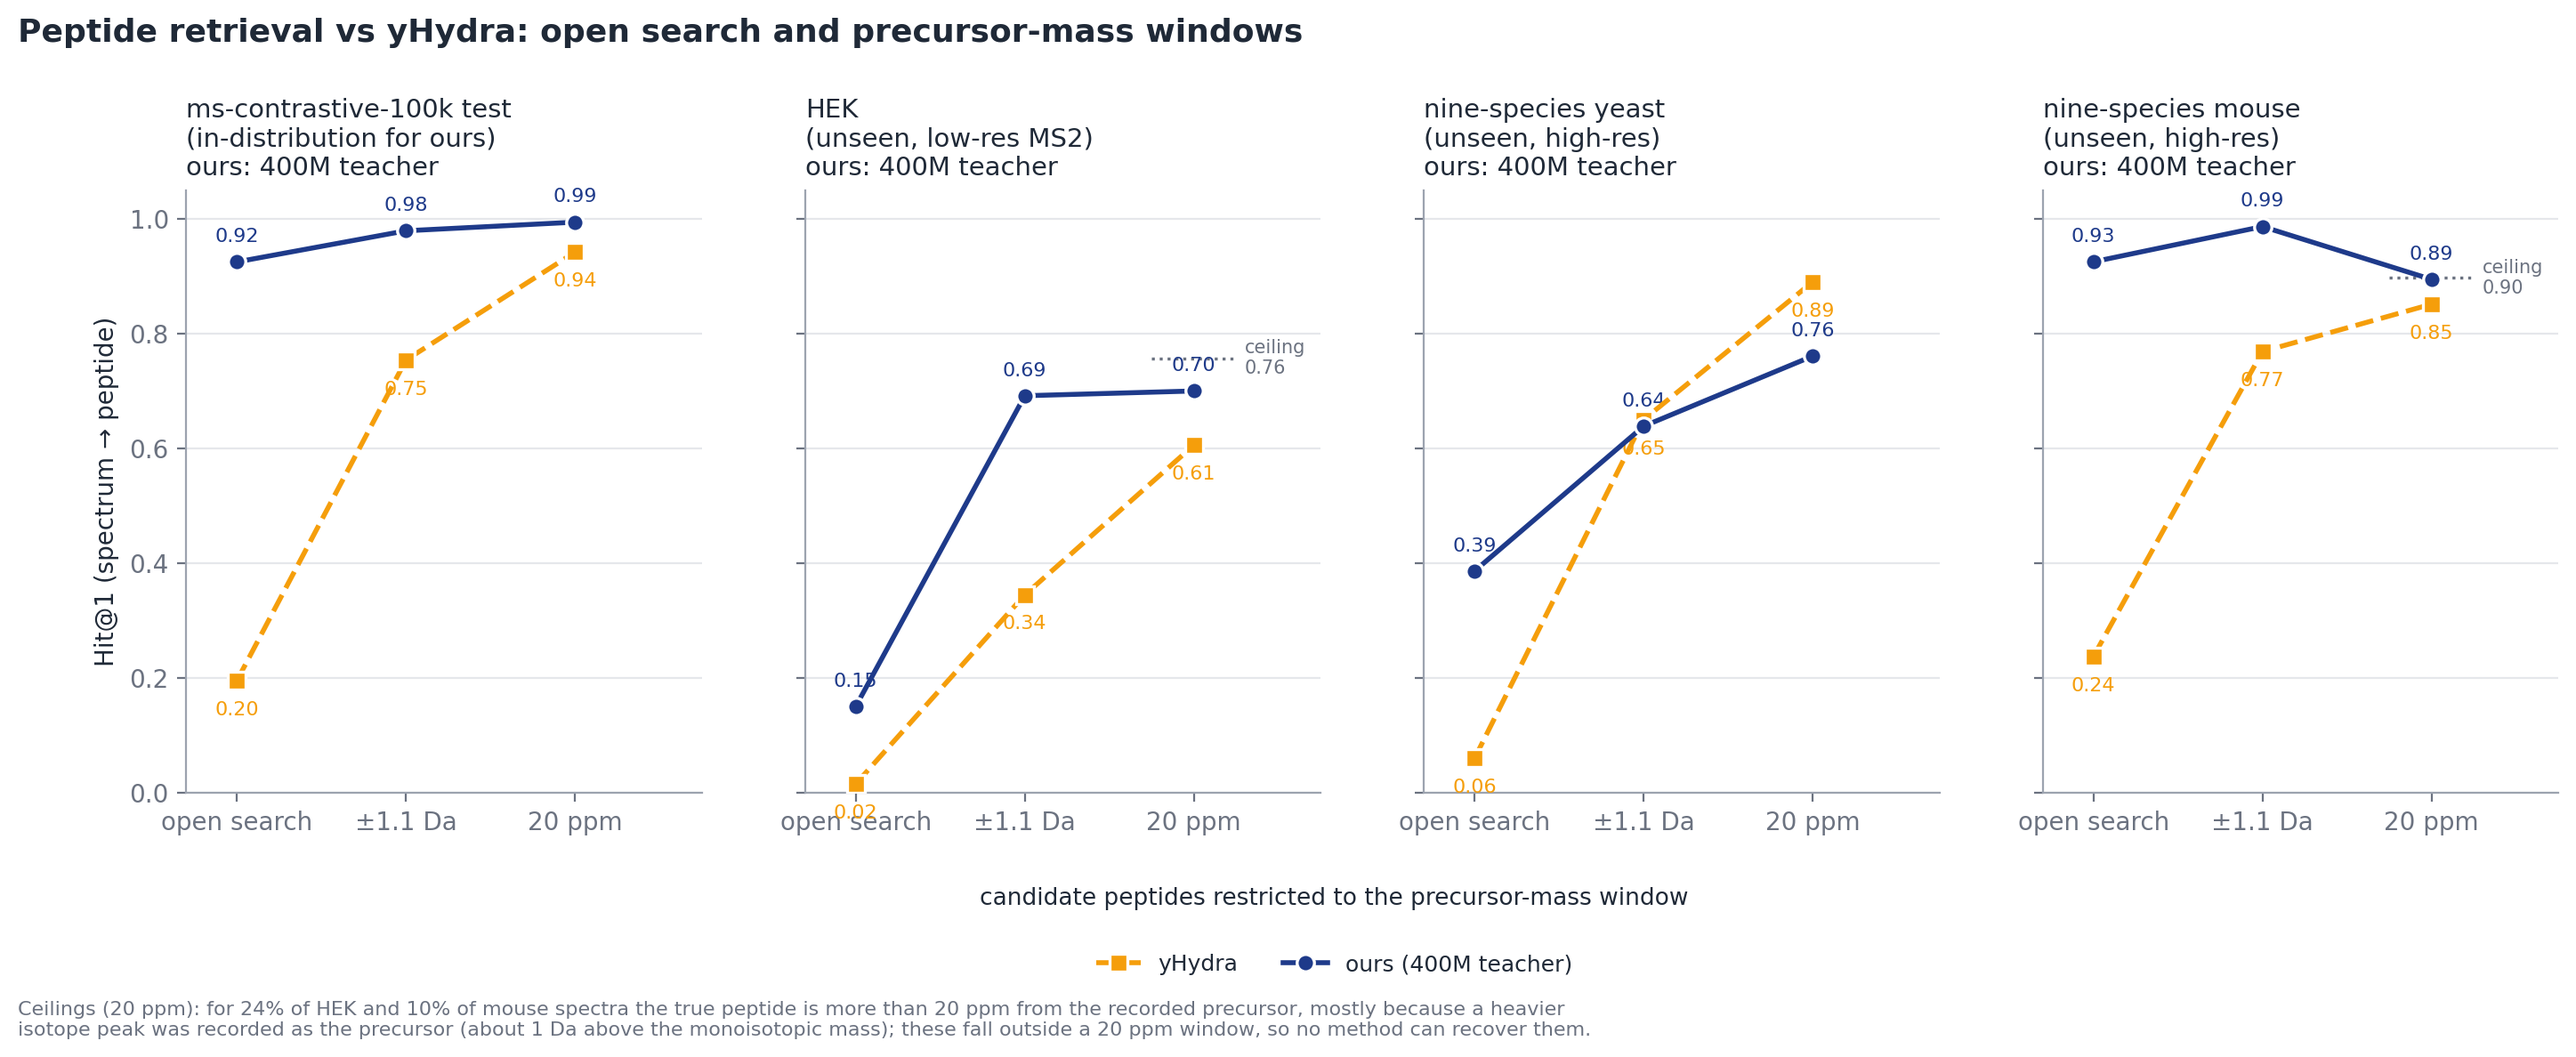
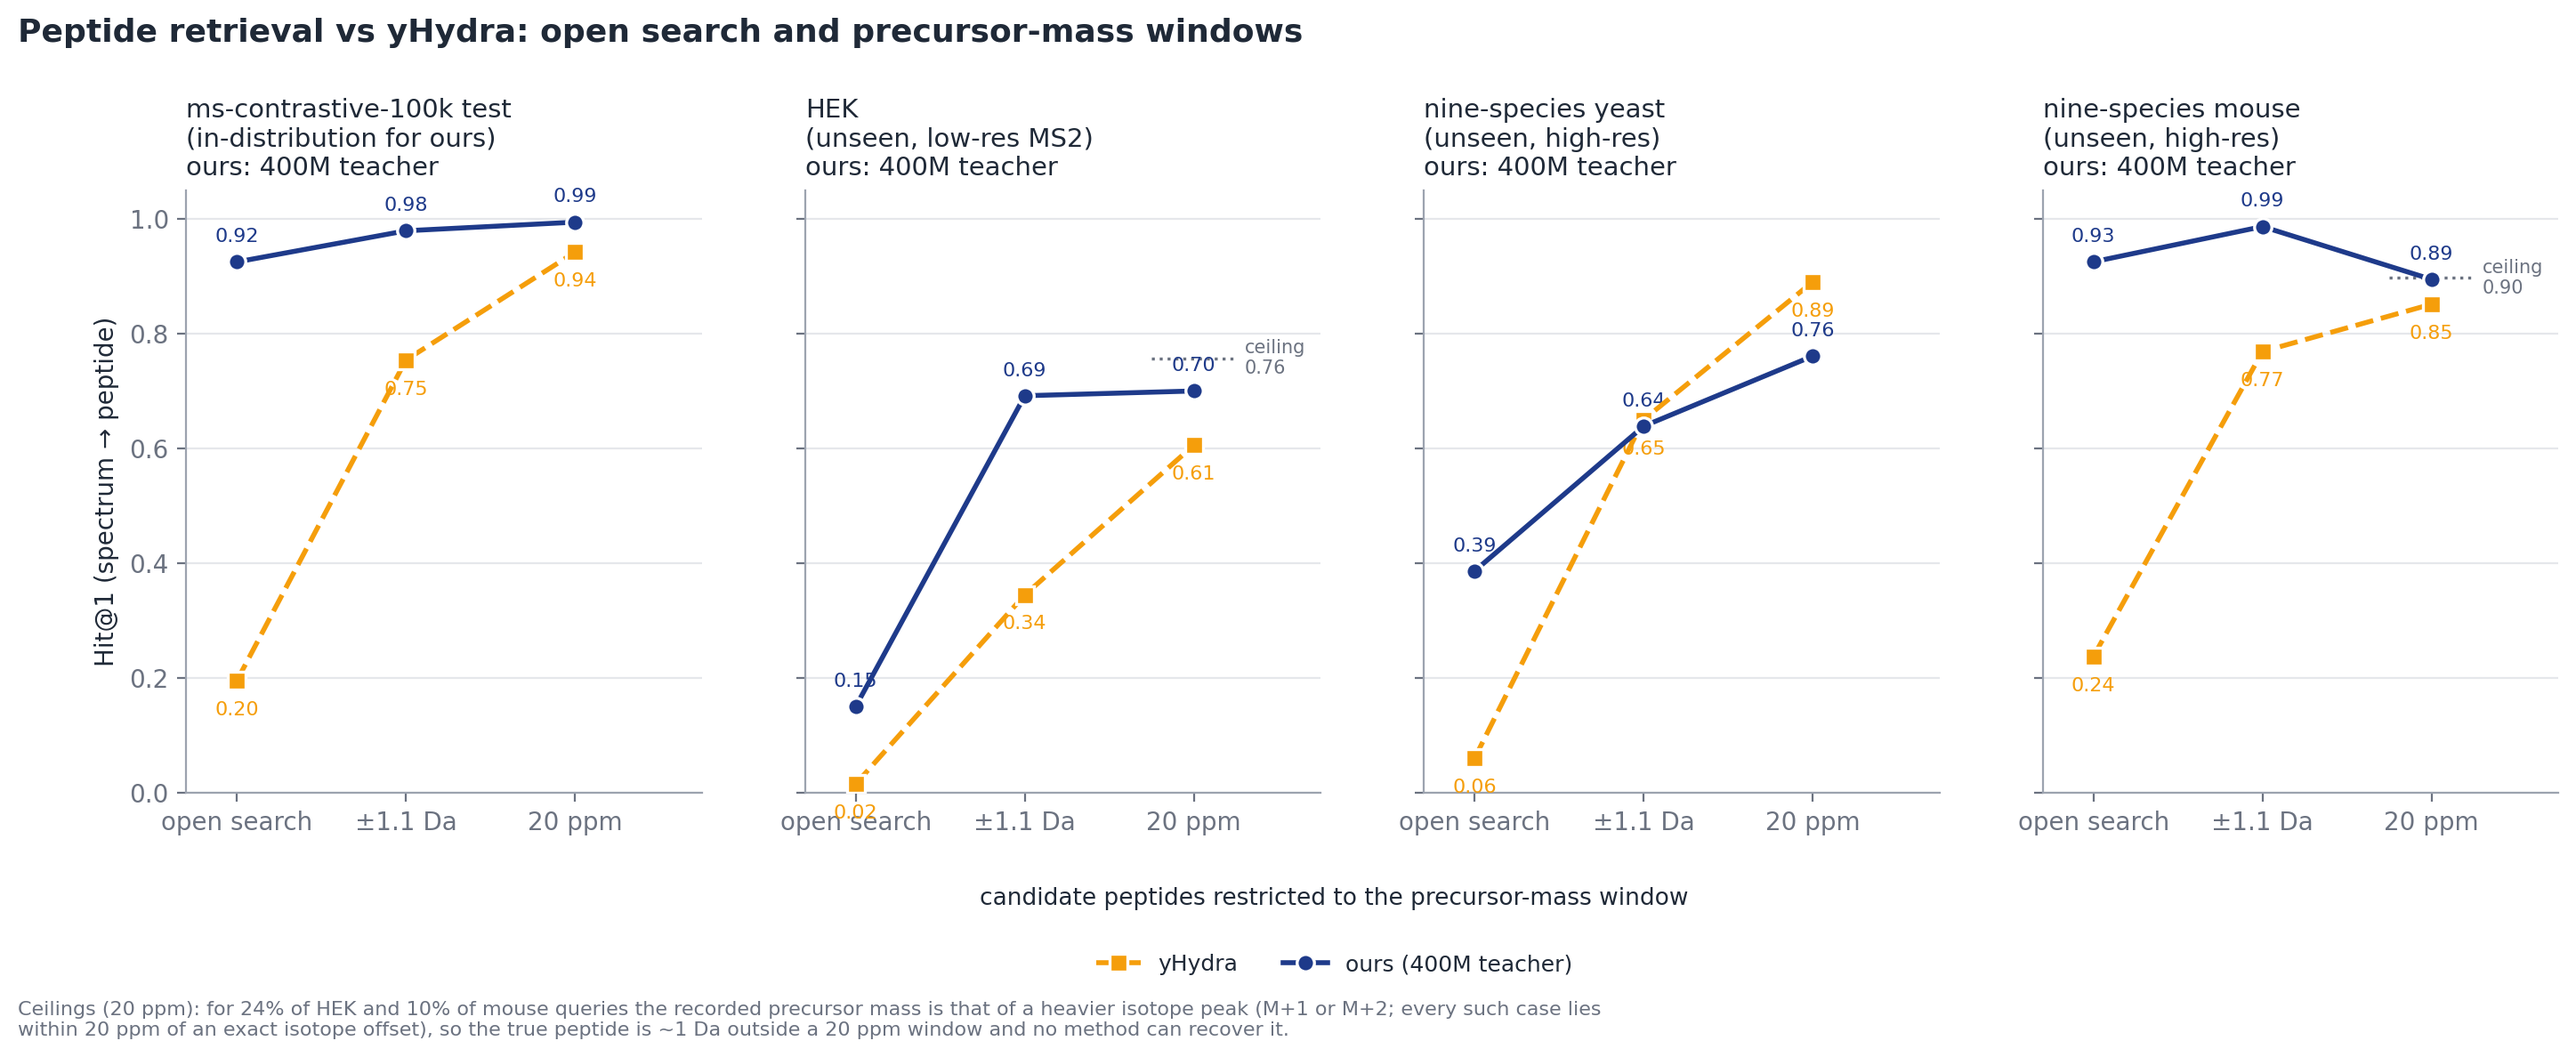
A_windows ceiling footnote/README: measured isotope-offset breakdown (HEK 24.9%, mouse 11.9%, no unexplained cases); mouse row in README
Claude-Session: https://claude.ai/code/session_01ATgkXx1oRRqvzB3G8wYeta

Changed region(s): [[0.0, 0.9343, 0.6218, 0.9966]]

diff --git a/sweeps/package_alignment.py b/sweeps/package_alignment.py
@@ -143,7 +143,7 @@ def fig_windows(rows, fixed=None, out="A_windows.png"):
         fig.legend(handles=[Line2D([], [], color=c, marker=mk, ls=ls, lw=2, ms=7, mec="white", mew=1.2)
                             for _, c, mk, ls in leg], labels=[l for l, *_ in leg], frameon=False,
                    fontsize=9, ncol=3, loc="upper center", bbox_to_anchor=(0.5, -0.07))
-        fig.text(0.07, -0.2, "Ceilings (20 ppm): for 24% of HEK and 10% of mouse spectra the true peptide is more than 20 ppm from the recorded precursor, mostly because a heavier\nisotope peak was recorded as the precursor (about 1 Da above the monoisotopic mass); these fall outside a 20 ppm window, so no method can recover them.", fontsize=8, color=MUTED)
+        fig.text(0.07, -0.2, "Ceilings (20 ppm): for 24% of HEK and 10% of mouse queries the recorded precursor mass is that of a heavier isotope peak (M+1 or M+2; every such case lies\nwithin 20 ppm of an exact isotope offset), so the true peptide is ~1 Da outside a 20 ppm window and no method can recover it.", fontsize=8, color=MUTED)
         fig.savefig(FIG / out); plt.close(fig)
     return plotted
 

diff --git a/paper/experiments/peptide_embedding/plot_peptide_embedding.py b/paper/experiments/peptide_embedding/plot_peptide_embedding.py
@@ -62,7 +62,7 @@ def windows():
         fig.legend(handles=[Line2D([], [], color=c, marker=mk, ls=ls, lw=2, ms=7, mec="white", mew=1.2)
                             for _, c, mk, ls in LINES], labels=[l for l, *_ in LINES], frameon=False,
                    fontsize=9, ncol=2, loc="upper center", bbox_to_anchor=(0.5, -0.07))
-        fig.text(0.07, -0.2, "Ceilings (20 ppm): for 24% of HEK and 10% of mouse spectra the true peptide is more than 20 ppm from the recorded precursor, mostly because a heavier\nisotope peak was recorded as the precursor (about 1 Da above the monoisotopic mass); these fall outside a 20 ppm window, so no method can recover them.", fontsize=8, color=MUTED)
+        fig.text(0.07, -0.2, "Ceilings (20 ppm): for 24% of HEK and 10% of mouse queries the recorded precursor mass is that of a heavier isotope peak (M+1 or M+2; every such case lies\nwithin 20 ppm of an exact isotope offset), so the true peptide is ~1 Da outside a 20 ppm window and no method can recover it.", fontsize=8, color=MUTED)
         fig.savefig(HERE / "A_windows.png"); plt.close(fig)
 
 

diff --git a/paper/experiments/peptide_embedding/README.md b/paper/experiments/peptide_embedding/README.md
@@ -26,6 +26,7 @@ Candidates can be restricted to those whose mass matches the spectrum's precurso
 | ms-contrastive-100k test (in-distribution for ours) | 22,869 | student of the fine-tuned 400M teacher; 3 seeds |
 | HEK (unseen, low-resolution MS2) | 26,628 | student of the fine-tuned 400M teacher; 3 seeds |
 | nine-species yeast (unseen, high-resolution) | 75,476 | student of a 400M teacher selected on the eight other species (seed 1, step 600); 1 seed |
+| nine-species mouse (Noble lab, nine-species-balanced; unseen, high-resolution) | 19,710 | student of the fine-tuned 400M teacher (released models); 1 run (deterministic) |
 
 - Queries are the spectra whose peptide yHydra can represent, identical for both methods.
 - **yHydra**: the published pretrained model, L2 distance (better than cosine for yHydra on all three datasets).
@@ -33,18 +34,20 @@ Candidates can be restricted to those whose mass matches the spectrum's precurso
   slightly larger (yeast, 20 ppm: median 4 vs 3 candidates).
 - "ours" is our best evaluated model on each dataset, chosen on these results; the per-row model is in
   the CSV (`method`, `teacher`, `job`).
-- **Ceiling (HEK, 20 ppm)**: for 24% of HEK spectra the true peptide is more than 20 ppm from the recorded
-  precursor mass, so it is excluded from the candidate list before scoring and no method can exceed 0.76.
-  The main cause is precursor isotope mis-assignment: the instrument recorded a heavier isotope peak as the
-  precursor, about 1.003 Da above the monoisotopic mass (among confident HEK identifications of run
-  HEK-0628-5, 14.2% are +1 isotope, 1.9% +2 and 0.8% -1). Search engines allow for this with an
-  isotope-error setting; a strict 20 ppm window does not. The other datasets have no such cases.
+- **Ceilings (20 ppm)**: for some queries the recorded precursor mass is that of a heavier isotope peak rather than
+  the monoisotopic one, so the true peptide lies ~1.003 Da (hundreds of ppm) away and is excluded from a 20 ppm
+  candidate list before scoring. Measured on all spectra by comparing the recorded precursor with the peptide's mass:
+  HEK 24.9% (+1 isotope 18.8%, +2 4.3%, -1 1.7%), mouse 11.9% (all +1); every such case lies within 20 ppm of an exact
+  isotope offset, so none come from a mass-calculation error. On the queries both methods can represent this caps
+  Hit@1 at 0.76 (HEK) and 0.90 (mouse). Search engines allow for it with an isotope-error setting; a strict 20 ppm
+  window does not. The ±1.1 Da and open-search settings are unaffected; the other datasets have no such cases.
 
 | dataset | window | yHydra | ours |
 |---|---|---|---|
 | in-distribution | open / ±1.1 Da / 20 ppm | 0.20 / 0.75 / 0.94 | 0.92 / 0.98 / 0.99 |
 | HEK | open / ±1.1 Da / 20 ppm | 0.02 / 0.34 / 0.61 | 0.15 / 0.69 / 0.70 |
 | nine-species yeast | open / ±1.1 Da / 20 ppm | 0.06 / 0.65 / 0.89 | 0.41 / 0.66 / 0.77 |
+| nine-species mouse | open / ±1.1 Da / 20 ppm | 0.24 / 0.77 / 0.85 | 0.93 / 0.99 / 0.89 |
 
 Reading: our embedding identifies peptides far better without a mass filter, and stays ahead on
 HEK at every window; on unseen high-resolution yeast, yHydra (designed around the precursor-mass

diff --git a/notes/OBSERVATIONS.md b/notes/OBSERVATIONS.md
@@ -1749,3 +1749,10 @@ MS2Rescore peak RSS 37 GB on HILIC14 (240k PSMs, 8-run set); the 18-run set's ru
 Far stronger than on yeast (DeepNovo nine-species test: open 0.39, 20 ppm 0.76 vs yHydra 0.89). CAVEAT before claiming:
 mouse was NOT used to select this model, but the training corpus (ms-contrastive-100k) may overlap public mouse data
 (the MassIVE-KB overlap question from C11 is still open) -- check provenance / peptide overlap before calling it unseen.
+
+## 20 ppm ceilings are precursor isotope mis-assignment (verified on all spectra, 2026-09-26 ~01:15 UTC)
+
+Recorded precursor mass vs the peptide's computed mass (the window test's own peptide_mass): HEK 27,637 spectra,
+24.9% outside 20 ppm = +1 isotope 18.8% / +2 4.3% / -1 1.7%; mouse 25,490 spectra, 11.9% outside = all +1.
+EVERY out-of-window case is within 20 ppm of an exact isotope offset (k x 1.00336 Da): no residue from our mass
+calculation or modification mapping. The earlier "mostly" for mouse was unverified; now measured.
